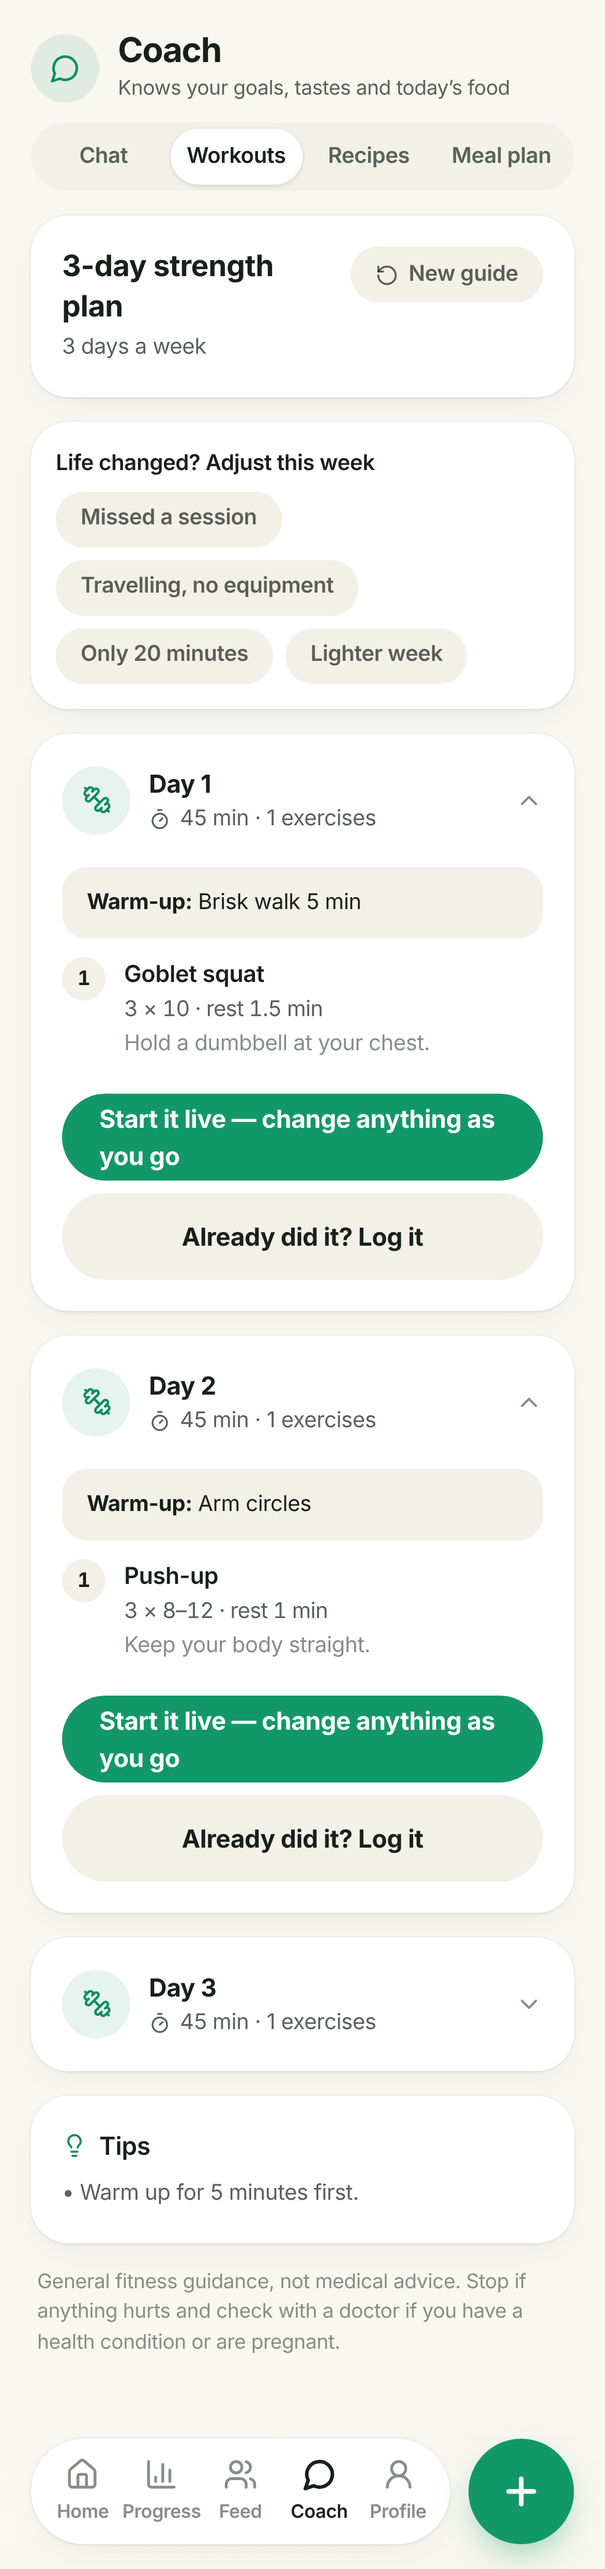
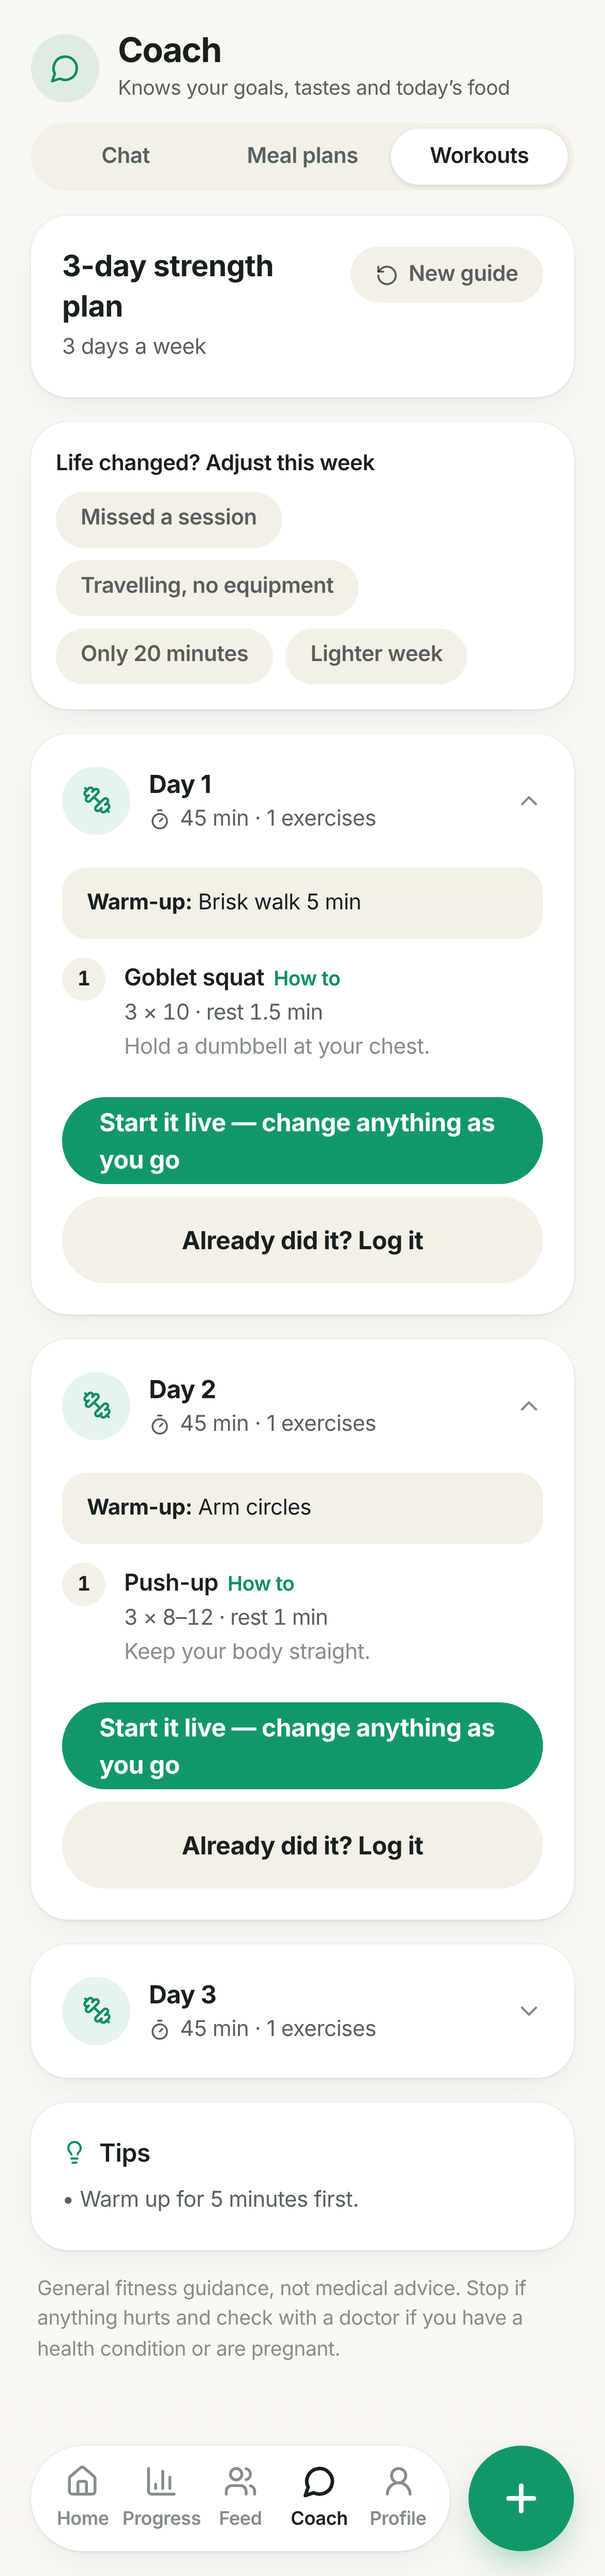
Coach: recipes under Meal plans (with your made and imported recipes); more workout-plan choices
- Coach tabs: Chat, Meal plans (Meal plan | Recipes) and Workouts.
- Recipes lists every recipe you built or imported, plus saved AI recipes.
- Workout plan: optional goal, training days, equipment, liked/left-out
  exercises and injuries; recent workouts and how they felt are sent along.
  Exercise names in the plan open their how-to guide.

Claude-Session: https://claude.ai/code/session_01G3MPpPWUuKqpqQt2Wb1c6d

diff --git a/src/components/WorkoutView.tsx b/src/components/WorkoutView.tsx
@@ -5,9 +5,11 @@ import { useStore } from '@/store/useStore';
 import { aiHeaders } from '@/lib/premium';
 import { todayKey } from '@/lib/dates';
 import { burnedKcal } from '@/lib/exercise';
-import type { WorkoutDay, WorkoutPlan, WorkoutRequest } from '@/lib/workout';
+import type { Goal, WorkoutDay, WorkoutPlan, WorkoutRequest } from '@/lib/workout';
+import { findExercise, CATEGORY_NAMES } from '@/data/exerciseLibrary';
 import { useCoachContext } from '@/pages/Coach';
 import { SignInButtons } from './SignIn';
+import { GuideSheet } from './ExerciseGuide';
 import { PlanBadge } from './PlanBadge';
 import { cx } from './ui';
 import { haptic, toast } from './fx';
@@ -20,7 +22,21 @@ const ADJUST: [string, Partial<WorkoutRequest>][] = [
   ['Only 20 minutes', { minutes: 20, focus: 'very short on time, keep the most effective moves' }],
   ['Lighter week', { focus: 'tired or sore — make this a lighter recovery week with lower volume and intensity' }],
 ];
+const GOALS: [Goal, string][] = [['muscle', 'Build muscle'], ['strength', 'Get stronger'], ['fat_loss', 'Lose fat'], ['endurance', 'Endurance'], ['general', 'General fitness'], ['flexibility', 'Flexibility']];
+const WEEKDAYS = ['Mon', 'Tue', 'Wed', 'Thu', 'Fri', 'Sat', 'Sun'];
+const KIT: [string, string][] = [['dumbbells', 'Dumbbells'], ['barbell', 'Barbell'], ['bench', 'Bench'], ['kettlebell', 'Kettlebell'], ['band', 'Bands'], ['bar', 'Pull-up bar'], ['cable', 'Cable machine'], ['machine', 'Gym machines'], ['bike', 'Bike'], ['rower', 'Rower'], ['rope', 'Skipping rope']];
 const LEVELS: [WorkoutRequest['level'], string][] = [['beginner', 'Beginner'], ['intermediate', 'Intermediate'], ['advanced', 'Advanced']];
+
+/** The last two weeks of training, briefly, so the plan avoids tired muscles and repeats. */
+function recentTraining(): string[] {
+  const st = useStore.getState();
+  const since = Date.now() - 14 * 864e5;
+  return st.workoutLogs.filter((w) => w.startedAt >= since).sort((a, b) => b.startedAt - a.startedAt).slice(0, 14).map((w) => {
+    const muscles = [...new Set(w.exercises.map((e) => findExercise(e.name)).filter(Boolean).map((e) => CATEGORY_NAMES[e!.category].toLowerCase()))];
+    const day = new Date(w.startedAt).toLocaleDateString('en-GB', { weekday: 'short', day: 'numeric', month: 'short' });
+    return `${day}: ${w.name} — ${w.exercises.map((e) => e.name).slice(0, 8).join(', ')}${muscles.length ? ` (${muscles.join(', ')})` : ''}${w.feel ? `; felt ${w.feel === 'right' ? 'about right' : `too ${w.feel}`}` : ''}`;
+  });
+}
 
 /** AI workout guide for the week (Pro). */
 export function WorkoutView() {
@@ -44,7 +60,7 @@ export function WorkoutView() {
     haptic();
     setState({ busy: true });
     try {
-      const res = await fetch('/api/workout', { method: 'POST', headers: await aiHeaders(), body: JSON.stringify({ context, request: r }) });
+      const res = await fetch('/api/workout', { method: 'POST', headers: await aiHeaders(), body: JSON.stringify({ context, request: { ...r, recent: recentTraining() } }) });
       const isJson = res.headers.get('content-type')?.includes('application/json');
       if (!isJson || res.status === 404 || res.status === 501) throw new Error('Workout guides aren’t switched on yet. They work once the AI key is added on the server.');
       const data = (await res.json()) as WorkoutPlan & { error?: string };
@@ -83,7 +99,22 @@ export function WorkoutView() {
           <div className="flex gap-2">
             {LEVELS.map(([v, l]) => <button key={v} onClick={() => setReq({ ...req, level: v })} className={cx('chip !h-11 flex-1 justify-center !px-2 text-[14px]', req.level === v && 'chip-on')}>{l}</button>)}
           </div>
-          <input value={req.focus} onChange={(e) => setReq({ ...req, focus: e.target.value })} maxLength={200} placeholder="Injuries, limits or exercises to avoid, equipment you have, goals — e.g. ‘bad knee, no jumping; dumbbells only’" className="field mt-4" />
+          <p className="label mt-4">Main goal <span className="font-normal text-dim">(optional)</span></p>
+          <div className="flex flex-wrap gap-2">
+            {GOALS.map(([v, l]) => <button key={v} onClick={() => setReq({ ...req, goal: req.goal === v ? undefined : v })} className={cx('chip !h-10', req.goal === v && 'chip-on')}>{l}</button>)}
+          </div>
+          <p className="label mt-4">Days you can train <span className="font-normal text-dim">(optional)</span></p>
+          <div className="flex gap-1.5">
+            {WEEKDAYS.map((d) => { const on = req.weekdays?.includes(d); return <button key={d} onClick={() => { const w = on ? (req.weekdays ?? []).filter((x) => x !== d) : [...(req.weekdays ?? []), d].sort((a, b) => WEEKDAYS.indexOf(a) - WEEKDAYS.indexOf(b)); setReq({ ...req, weekdays: w, ...(w.length >= 2 ? { daysPerWeek: w.length } : {}) }); }} className={cx('chip !h-10 flex-1 justify-center !px-0 text-[13px]', on && 'chip-on')}>{d}</button>; })}
+          </div>
+          <p className="label mt-4">Equipment you have <span className="font-normal text-dim">(optional)</span></p>
+          <div className="flex flex-wrap gap-2">
+            {KIT.map(([v, l]) => { const on = req.equipment?.includes(v); return <button key={v} onClick={() => setReq({ ...req, equipment: on ? (req.equipment ?? []).filter((x) => x !== v) : [...(req.equipment ?? []), v] })} className={cx('chip !h-10', on && 'chip-on')}>{l}</button>; })}
+          </div>
+          <input value={req.likes ?? ''} onChange={(e) => setReq({ ...req, likes: e.target.value })} maxLength={200} placeholder="Exercises you enjoy (optional)" className="field mt-4" aria-label="Exercises you enjoy" />
+          <input value={req.dislikes ?? ''} onChange={(e) => setReq({ ...req, dislikes: e.target.value })} maxLength={200} placeholder="Exercises to leave out (optional)" className="field mt-2" aria-label="Exercises to leave out" />
+          <input value={req.limits ?? ''} onChange={(e) => setReq({ ...req, limits: e.target.value })} maxLength={300} placeholder="Injuries or limits, e.g. ‘bad knee, no jumping’ (optional)" className="field mt-2" aria-label="Injuries or limits" />
+          <input value={req.focus} onChange={(e) => setReq({ ...req, focus: e.target.value })} maxLength={200} placeholder="Anything else? (optional)" className="field mt-2" aria-label="Anything else" />
 
           <button onClick={() => void make()} disabled={state.busy} className="btn-primary mt-4 w-full">
             {state.busy ? <><Loader2 size={18} className="animate-spin" /> Building your week…</> : 'Build my workout guide'}
@@ -136,6 +167,7 @@ function DayCard({ day, defaultOpen, index }: { day: WorkoutDay; defaultOpen: bo
   const addExercise = useStore((s) => s.addExercise);
   const kg = useStore((s) => s.profile?.bodyWeightKg ?? 0);
   const [done, setDone] = useState(false);
+  const [guide, setGuide] = useState<string | null>(null);
 
   function logDone() {
     haptic();
@@ -150,7 +182,7 @@ function DayCard({ day, defaultOpen, index }: { day: WorkoutDay; defaultOpen: bo
       <button onClick={() => setOpen(!open)} className="flex w-full items-center gap-3 p-5 text-left">
         <span className="grid h-11 w-11 shrink-0 place-items-center rounded-full bg-accent/10 text-accent"><Dumbbell size={19} /></span>
         <div className="min-w-0 flex-1">
-          <p className="truncate text-[16px] font-bold">{day.name}</p>
+          <p className="truncate text-[16px] font-bold">{day.weekday ? `${day.weekday} · ` : ''}{day.name}</p>
           <p className="flex items-center gap-1.5 text-sm text-silver"><Timer size={14} /> {day.minutes} min · {day.exercises.length} exercises</p>
         </div>
         <ChevronDown size={18} className={cx('shrink-0 text-dim transition', open && 'rotate-180')} />
@@ -163,13 +195,14 @@ function DayCard({ day, defaultOpen, index }: { day: WorkoutDay; defaultOpen: bo
               <li key={i} className="flex gap-3">
                 <span className="num grid h-7 w-7 shrink-0 place-items-center rounded-full bg-raised text-xs font-bold">{i + 1}</span>
                 <div className="min-w-0">
-                  <p className="text-[15px] font-semibold">{e.name}</p>
+                  <button onClick={() => setGuide(e.name)} className="text-left text-[15px] font-semibold">{e.name}{findExercise(e.name) && <span className="ml-1.5 text-xs font-semibold text-accent">How to</span>}</button>
                   <p className="num text-sm text-silver">{e.sets} × {e.reps}{e.restSeconds ? ` · rest ${e.restSeconds >= 60 ? `${Math.round(e.restSeconds / 6) / 10} min` : `${e.restSeconds} s`}` : ''}</p>
                   {e.how && <p className="text-sm text-dim">{e.how}</p>}
                 </div>
               </li>
             ))}
           </ol>
+          <GuideSheet name={guide} onClose={() => setGuide(null)} />
           <Link to={`/workout?guideDay=${index}`} className="btn-primary mt-5 w-full">Start it live — change anything as you go</Link>
           <button onClick={logDone} disabled={done} className="btn-ghost mt-2 w-full">
             {done ? <><Check size={18} /> Logged for today</> : 'Already did it? Log it'}

diff --git a/src/components/RecipeView.tsx b/src/components/RecipeView.tsx
@@ -1,7 +1,7 @@
 import { AllergyTextBanner } from './Allergy';
 import { useMemo, useState } from 'react';
 import { Link } from 'react-router-dom';
-import { Bookmark, BookmarkCheck, Check, Clock, Lightbulb, Loader2, Search, Trash2, Users } from 'lucide-react';
+import { Bookmark, BookmarkCheck, Check, ChefHat, ChevronRight, Clock, Lightbulb, Loader2, Search, Trash2, Users } from 'lucide-react';
 import { useStore } from '@/store/useStore';
 import { useFoodDb } from '@/lib/hooks';
 import { confidentMatch, splitName } from '@/lib/foods';
@@ -113,6 +113,8 @@ export function RecipeView() {
         </section>
       )}
 
+      <MyRecipes />
+
       {recipe && (
         <RecipeCard
           recipe={recipe}
@@ -220,6 +222,36 @@ function RecipeCard({ recipe, savedId, onSave, onDelete }: { recipe: Recipe; sav
         </ol>
         {recipe.tip && <p className="mt-4 flex gap-2 rounded-2xl bg-raised px-4 py-3 text-sm"><Lightbulb size={16} className="mt-0.5 shrink-0 text-accent" /> {recipe.tip}</p>}
       </div>
+    </section>
+  );
+}
+
+/** Recipes you made or imported (with ingredients): open one to log a portion, or add another. */
+function MyRecipes() {
+  const custom = useStore((s) => s.customFoods);
+  const mine = useMemo(() => custom.filter((c) => c.recipe && !c.archived), [custom]);
+  return (
+    <section>
+      <div className="mb-2 flex items-center justify-between px-1">
+        <p className="text-[15px] font-semibold">My recipes {mine.length > 0 && <span className="font-normal text-silver">· made or imported</span>}</p>
+        <Link to="/recipe" className="text-sm font-semibold text-accent">+ New or import</Link>
+      </div>
+      {mine.length === 0 ? (
+        <Link to="/recipe" className="card block p-4 text-sm text-silver">No recipes yet. Build one from ingredients, or import from a link, a photo or pasted text — then log a portion any time.</Link>
+      ) : (
+        <div className="card divide-y divide-line p-1.5">
+          {mine.map((r) => (
+            <Link key={r.id} to={`/recipe?id=${r.id}`} className="flex items-center gap-3 px-3 py-2.5">
+              <ChefHat size={18} className="shrink-0 text-accent" />
+              <span className="min-w-0 flex-1">
+                <span className="block truncate font-semibold">{r.name}</span>
+                <span className="block truncate text-xs text-silver">{r.recipe!.ingredients.length} ingredients{r.recipe!.servings ? ` · ${r.recipe!.servings} servings` : ''}{/import|from /i.test(r.sourceNote ?? '') ? ' · imported' : ''}</span>
+              </span>
+              <ChevronRight size={16} className="shrink-0 text-dim" />
+            </Link>
+          ))}
+        </div>
+      )}
     </section>
   );
 }

diff --git a/src/pages/Coach.tsx b/src/pages/Coach.tsx
@@ -152,7 +152,9 @@ export default function Coach() {
           </div>
         </div>
       </header>
-      <div className="mb-4"><Segmented full value={view} onChange={(v) => { haptic(); setView(v); }} options={[{ value: 'chat', label: 'Chat' }, { value: 'workout', label: 'Workouts' }, { value: 'recipe', label: 'Recipes' }, { value: 'plan', label: 'Meal plan' }]} /></div>
+      <div className="mb-4"><Segmented full value={view === 'recipe' ? 'plan' : view} onChange={(v) => { haptic(); setView(v); }} options={[{ value: 'chat', label: 'Chat' }, { value: 'plan', label: 'Meal plans' }, { value: 'workout', label: 'Workouts' }]} /></div>
+      {/* Recipes live with meal plans: plan the week, or find and save recipes, in one place. */}
+      {(view === 'plan' || view === 'recipe') && <div className="mb-4"><Segmented full value={view} onChange={(v) => { haptic(); setView(v); }} options={[{ value: 'plan', label: 'Meal plan' }, { value: 'recipe', label: 'Recipes' }]} /></div>}
       {view === 'chat' ? <Chat /> : view === 'workout' ? <WorkoutView /> : view === 'recipe' ? <RecipeView /> : <PlanView />}
     </div>
   );
